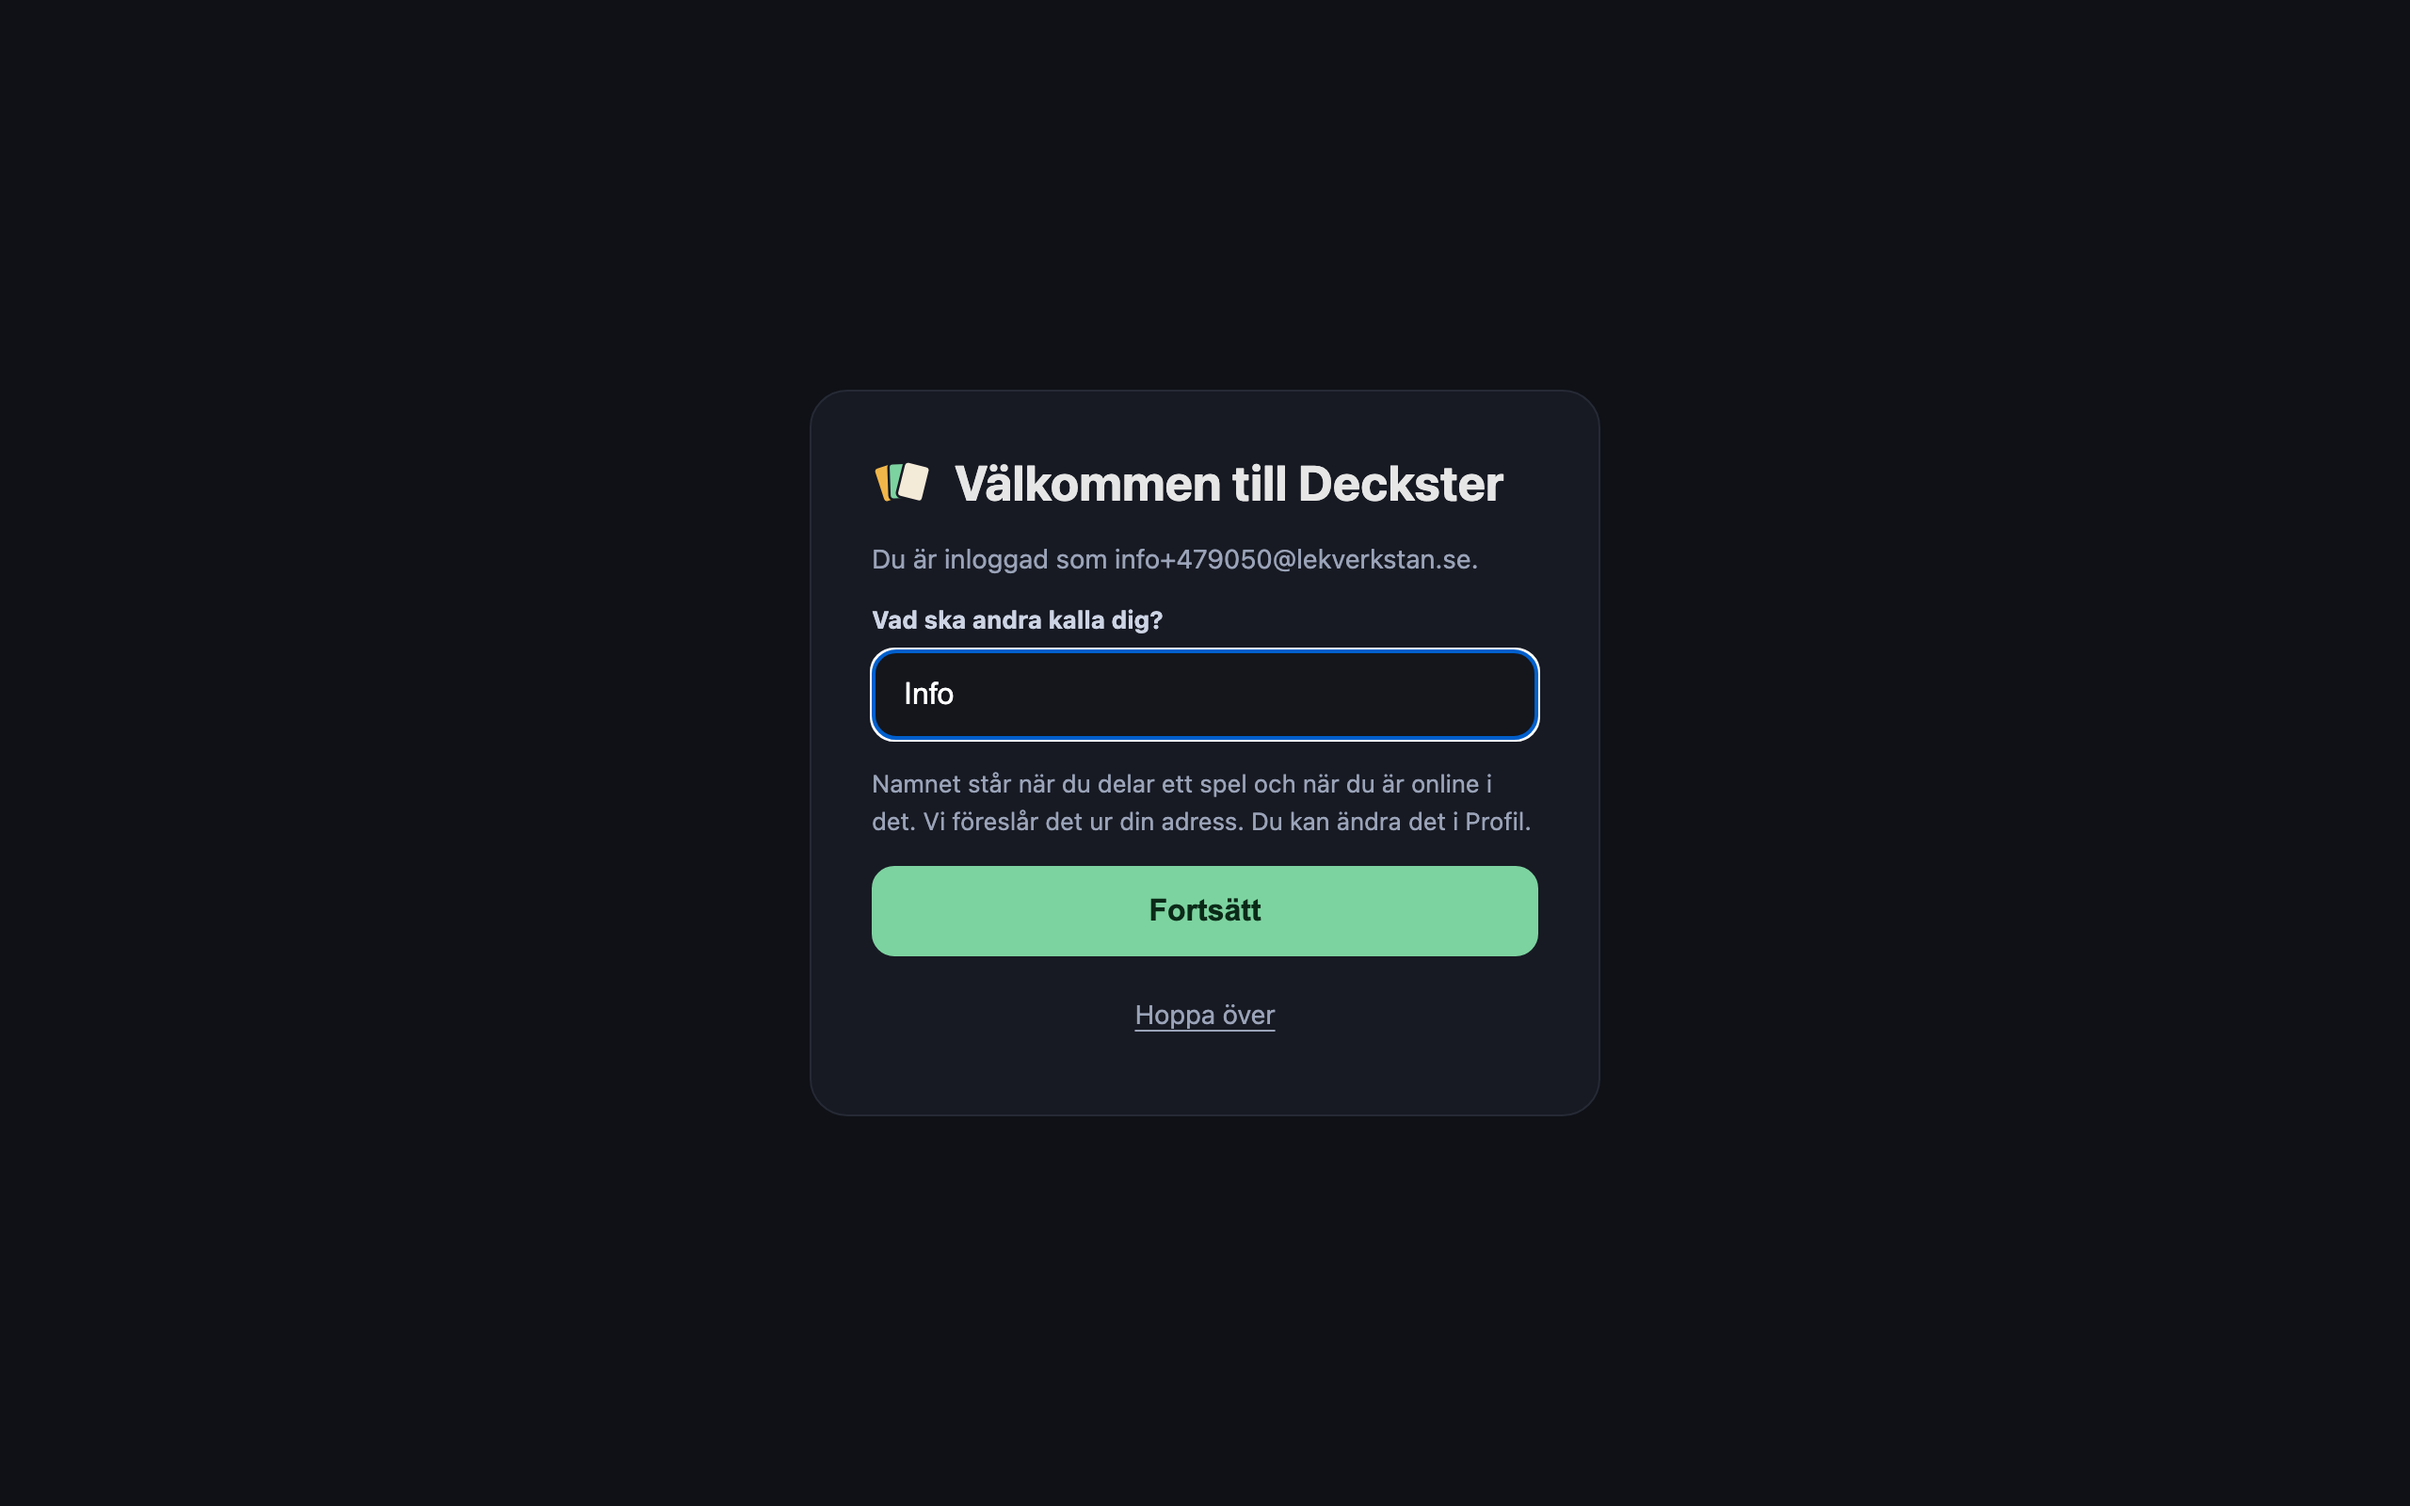
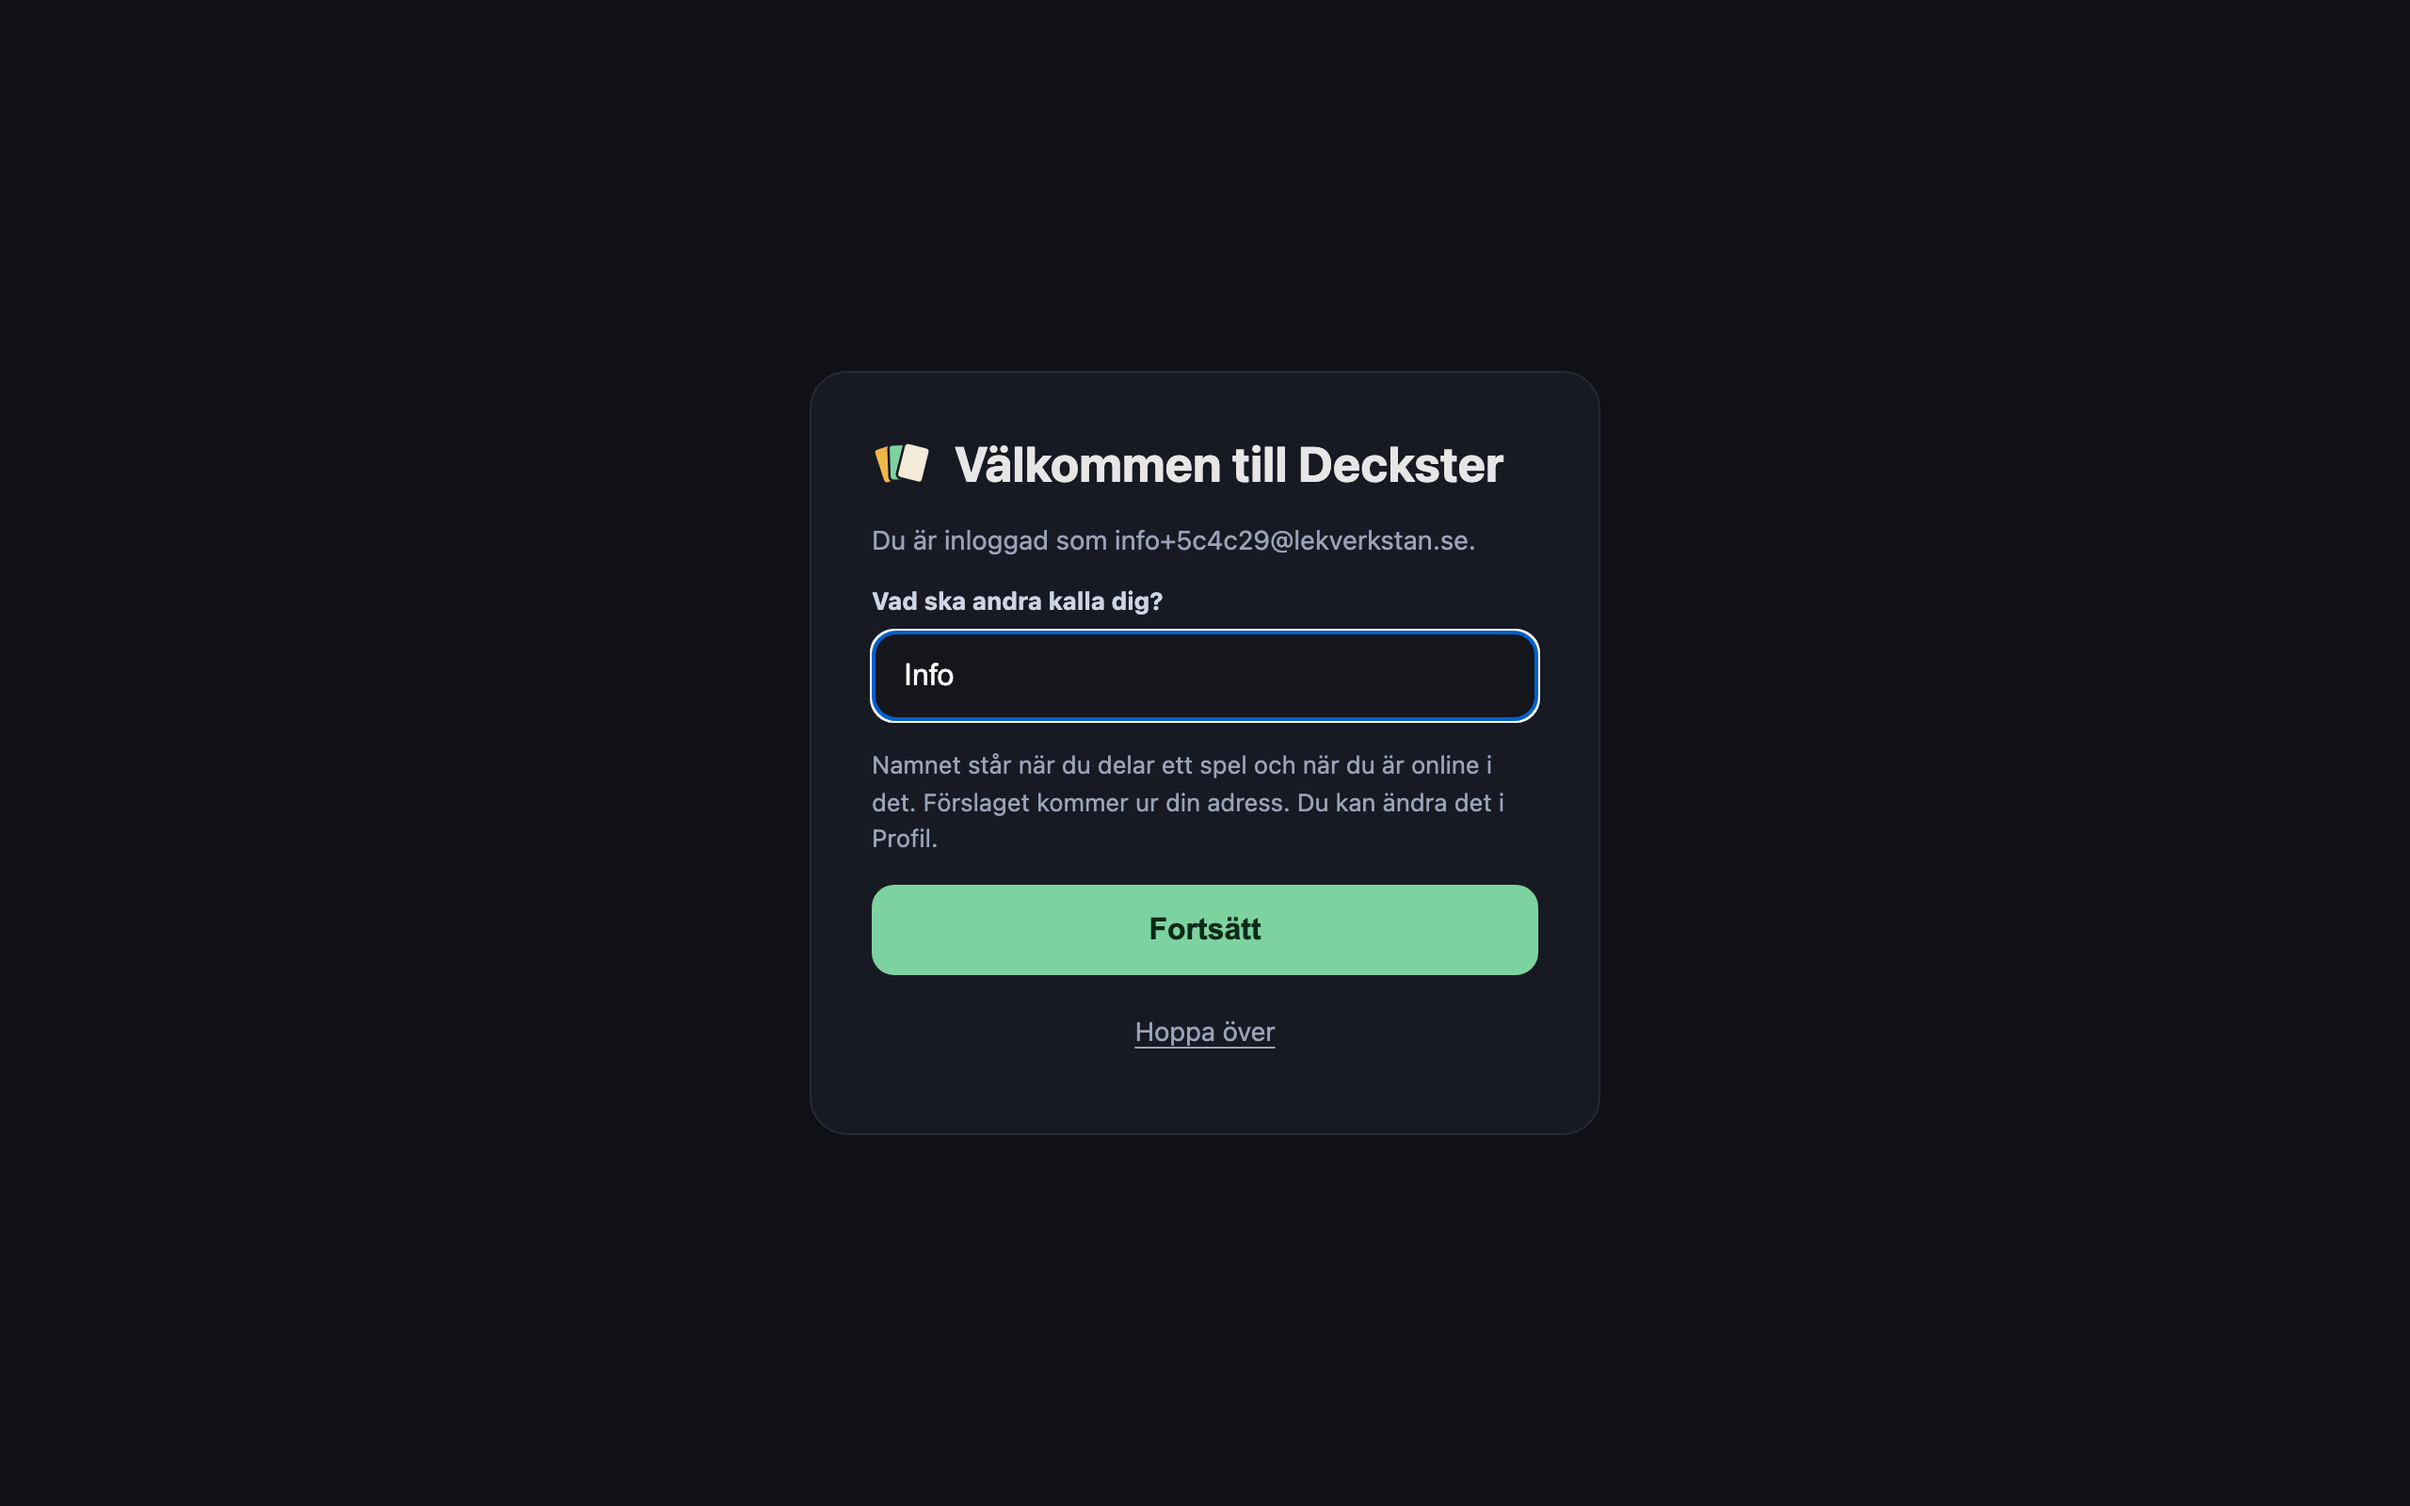
Telefonens skript bär inte namnets anrop (#1254)
myAccount, saveName och arrival flyttar till account/me.ts, så att session.ts,
som följer med varje yta, inte växer telefonen över sitt larm (#760).
Den sista närvaropinnen i project-wire läser serverns ord, och
välkomststegets skärmdumpar visar den nya förslagsraden.

Changed region(s): [[0.3438, 0.2812, 0.6562, 0.7188]]

diff --git a/packages/web/src/account/me.ts b/packages/web/src/account/me.ts
@@ -1,0 +1,38 @@
+import { withCredentials } from './session.js'
+
+// The account's own name (#1254), apart from `session.ts`: that module travels with every surface,
+// the phone's included (#760), and only the account's pages, the login card and the observer's page
+// ever ask what the account is called.
+
+// Who is signed in, with the name the account goes by to others (#1254) and whether it has been asked
+// for one; null for nobody.
+export type Me = { email: string; name: string | null; asked: boolean }
+export async function myAccount(http: string): Promise<Me | null> {
+  const res = await fetch(`${http}/auth/me`, withCredentials())
+  if (!res.ok) throw new Error(`could not read the account: ${res.status}`)
+  const me = (await res.json()) as { email: string | null; name?: string | null; asked?: boolean }
+  // A server from before the name has asked nobody and has nowhere to keep an answer, so its
+  // accounts are taken as asked rather than sent to a step that could not be saved.
+  return me.email === null ? null : { email: me.email, name: me.name ?? null, asked: me.asked ?? true }
+}
+
+// The account's name (#1254), or none: either is the answer to the question, which is not put again.
+// `false` when the server would not keep it.
+export async function saveName(http: string, name: string | null): Promise<{ name: string | null } | false> {
+  const res = await fetch(`${http}/me/name`, withCredentials({ method: 'PUT', headers: { 'content-type': 'application/json' }, body: JSON.stringify({ name }) }))
+  if (res.status === 400) return false
+  if (!res.ok) throw new Error(`could not save the name: ${res.status}`)
+  return (await res.json()) as { name: string | null }
+}
+
+// Where a login made on the page goes on to (#1254, variant C): the welcome step first for an account
+// that has not been asked what the others should call it, and `next` after it. The link's own way in
+// is the server's (`/auth/verify`); this is the passkey's and the development login's.
+export async function arrival(http: string, next: string): Promise<string> {
+  const me = await myAccount(http).catch(() => null)
+  if (!me || me.asked) return next
+  const q = new URLSearchParams({ next })
+  const server = typeof location === 'undefined' ? null : new URLSearchParams(location.search).get('server')
+  if (server) q.set('server', server)
+  return `/welcome?${q.toString()}`
+}

diff --git a/packages/web/src/account/session.ts b/packages/web/src/account/session.ts
@@ -38,39 +38,6 @@ export async function whoAmI(http: string): Promise<string | null> {
   return ((await res.json()) as { email: string | null }).email
 }
 
-// Who is signed in, with the name the account goes by to others (#1254) and whether it has been asked
-// for one; null for nobody.
-export type Me = { email: string; name: string | null; asked: boolean }
-export async function myAccount(http: string): Promise<Me | null> {
-  const res = await fetch(`${http}/auth/me`, withCredentials())
-  if (!res.ok) throw new Error(`could not read the account: ${res.status}`)
-  const me = (await res.json()) as { email: string | null; name?: string | null; asked?: boolean }
-  // A server from before the name has asked nobody and has nowhere to keep an answer, so its
-  // accounts are taken as asked rather than sent to a step that could not be saved.
-  return me.email === null ? null : { email: me.email, name: me.name ?? null, asked: me.asked ?? true }
-}
-
-// The account's name (#1254), or none: either is the answer to the question, which is not put again.
-// `false` when the server would not keep it.
-export async function saveName(http: string, name: string | null): Promise<{ name: string | null } | false> {
-  const res = await fetch(`${http}/me/name`, withCredentials({ method: 'PUT', headers: { 'content-type': 'application/json' }, body: JSON.stringify({ name }) }))
-  if (res.status === 400) return false
-  if (!res.ok) throw new Error(`could not save the name: ${res.status}`)
-  return (await res.json()) as { name: string | null }
-}
-
-// Where a login made on the page goes on to (#1254, variant C): the welcome step first for an account
-// that has not been asked what the others should call it, and `next` after it. The link's own way in
-// is the server's (`/auth/verify`); this is the passkey's and the development login's.
-export async function arrival(http: string, next: string): Promise<string> {
-  const me = await myAccount(http).catch(() => null)
-  if (!me || me.asked) return next
-  const q = new URLSearchParams({ next })
-  const server = typeof location === 'undefined' ? null : new URLSearchParams(location.search).get('server')
-  if (server) q.set('server', server)
-  return `/welcome?${q.toString()}`
-}
-
 export async function logout(http: string): Promise<void> {
   await fetch(`${http}/auth/logout`, withCredentials({ method: 'POST' }))
 }

diff --git a/packages/web/src/account/api.ts b/packages/web/src/account/api.ts
@@ -6,7 +6,8 @@ import { translate, type T } from '../i18n/index.js'
 import { Said } from '../i18n/said.js'
 import { Unauthorized, pageLang, withCredentials } from './session.js'
 import { QuotaReached, quotaOf, type Quota } from './quota.js'
-export { Unauthorized, arrival, claimGuest, claimUrl, loginUrl, logout, myAccount, requestLink, saveName, whoAmI, withCredentials, type Me } from './session.js'
+export { Unauthorized, claimGuest, claimUrl, loginUrl, logout, requestLink, whoAmI, withCredentials } from './session.js'
+export { arrival, myAccount, saveName, type Me } from './me.js'
 
 // What went wrong is said to the reader, in their language (A4). A caller that has no `t` — a
 // test, a surface mounted on its own — gets Swedish, the catalogue's own language.

diff --git a/packages/web/src/observer/ObserverPage.tsx b/packages/web/src/observer/ObserverPage.tsx
@@ -16,7 +16,8 @@ import { useRolls } from '../table/Die.js'
 import { HeldCard } from '../player/HeldCard.js'
 import { Survey } from '../player/Survey.js'
 import { submitSurvey } from '../player/surveyApi.js'
-import { claimUrl, myAccount } from '../account/session.js'
+import { claimUrl } from '../account/session.js'
+import { myAccount } from '../account/me.js'
 import { DEFAULT_TIMING, type StatusTiming } from '../status/connection.js'
 import { useLiveStatus } from '../status/useLiveStatus.js'
 import { RouteStatus } from '../status/RouteStatus.js'

diff --git a/packages/web/src/account/NameCard.tsx b/packages/web/src/account/NameCard.tsx
@@ -3,7 +3,7 @@ import { NAME_MAX, suggestedName } from '@byd/server/doc'
 import { useT } from '../i18n/index.js'
 import { useSay } from '../status/StatusLive.js'
 import { colourOf, initialOf } from './face.js'
-import { saveName } from './session.js'
+import { saveName } from './me.js'
 
 // «Namn», first on the profile (#1254): what the others call the designer, where it is changed at any
 // time. The field, a line on what the name is for or what standing without one means, and the row the

diff --git a/packages/web/src/account/NameOffer.tsx b/packages/web/src/account/NameOffer.tsx
@@ -3,7 +3,7 @@ import { NAME_MAX, suggestedName } from '@byd/server/doc'
 import { useT } from '../i18n/index.js'
 import { useSay } from '../status/StatusLive.js'
 import { PersonGlyph } from '../glyphs.js'
-import { saveName } from './session.js'
+import { saveName } from './me.js'
 
 // The question on Mina spel for an account that was made before the name (#1254, variant C): the
 // welcome step's question, in the passkey band's form (L78) and in its place, with the suggestion

diff --git a/packages/web/src/account/WelcomePage.tsx b/packages/web/src/account/WelcomePage.tsx
@@ -5,7 +5,8 @@ import { StatusNotice } from '../status/StatusNotice.js'
 import { noticeFor } from '../status/notice.js'
 import { usePageTitle } from '../status/DocumentTitle.js'
 import { useT } from '../i18n/index.js'
-import { loginUrl, myAccount, saveName, type Me } from './session.js'
+import { loginUrl } from './session.js'
+import { myAccount, saveName, type Me } from './me.js'
 import { safeNext } from './next.js'
 import './account.css'
 

diff --git a/packages/web/src/account/LoginCard.tsx b/packages/web/src/account/LoginCard.tsx
@@ -1,6 +1,7 @@
 import { useEffect, useId, useRef, useState, type FormEvent } from 'react'
 import { DecksterMark } from '../brand/DecksterMark.js'
-import { arrival, requestLink } from './session.js'
+import { requestLink } from './session.js'
+import { arrival } from './me.js'
 import { markPitchSeen, pitchSeen } from './pitch.js'
 import { Help } from '../editor/HelpDrawer.js'
 import { LanguagePicker, useT, type Key } from '../i18n/index.js'

diff --git a/packages/server/test/project-wire.test.ts b/packages/server/test/project-wire.test.ts
@@ -103,7 +103,7 @@ describe('two people editing the same project (D3)', () => {
 
     ada.close()
     await new Promise((r) => setTimeout(r, 50))
-    expect((await bo.until('here', (m) => m.here.length === 1)).here.map((p) => p.name)).toEqual(['Bo'])
+    expect((await bo.until('here', (m) => m.here.length === 1)).here.map((p) => p.name)).toEqual(['bo@example.com'])
     bo.close()
   })
 
